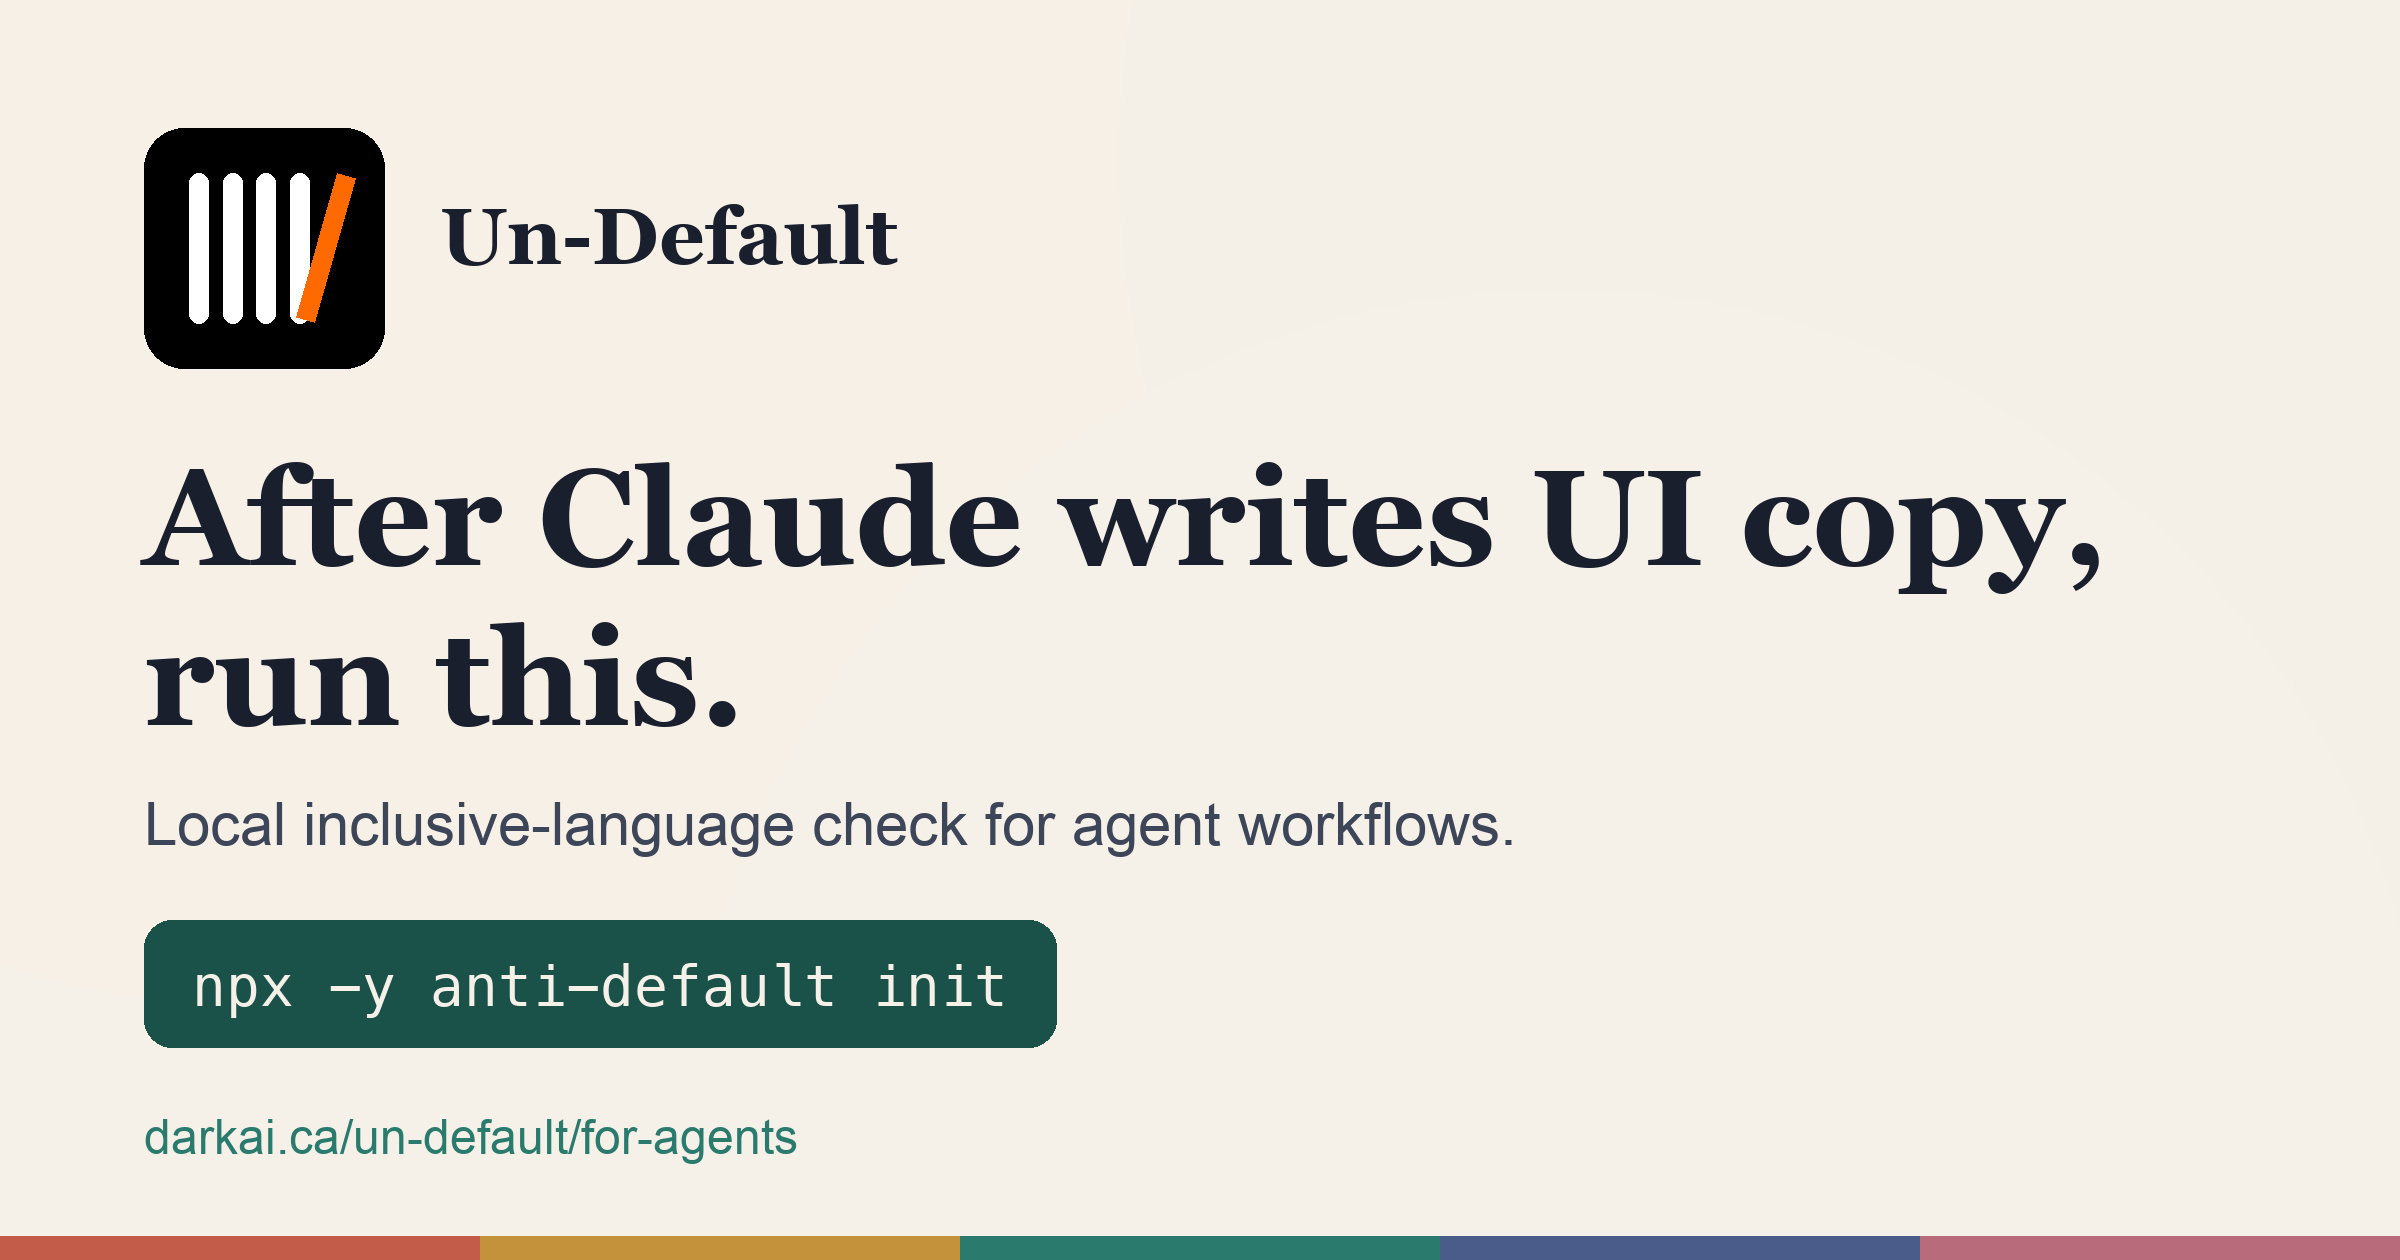
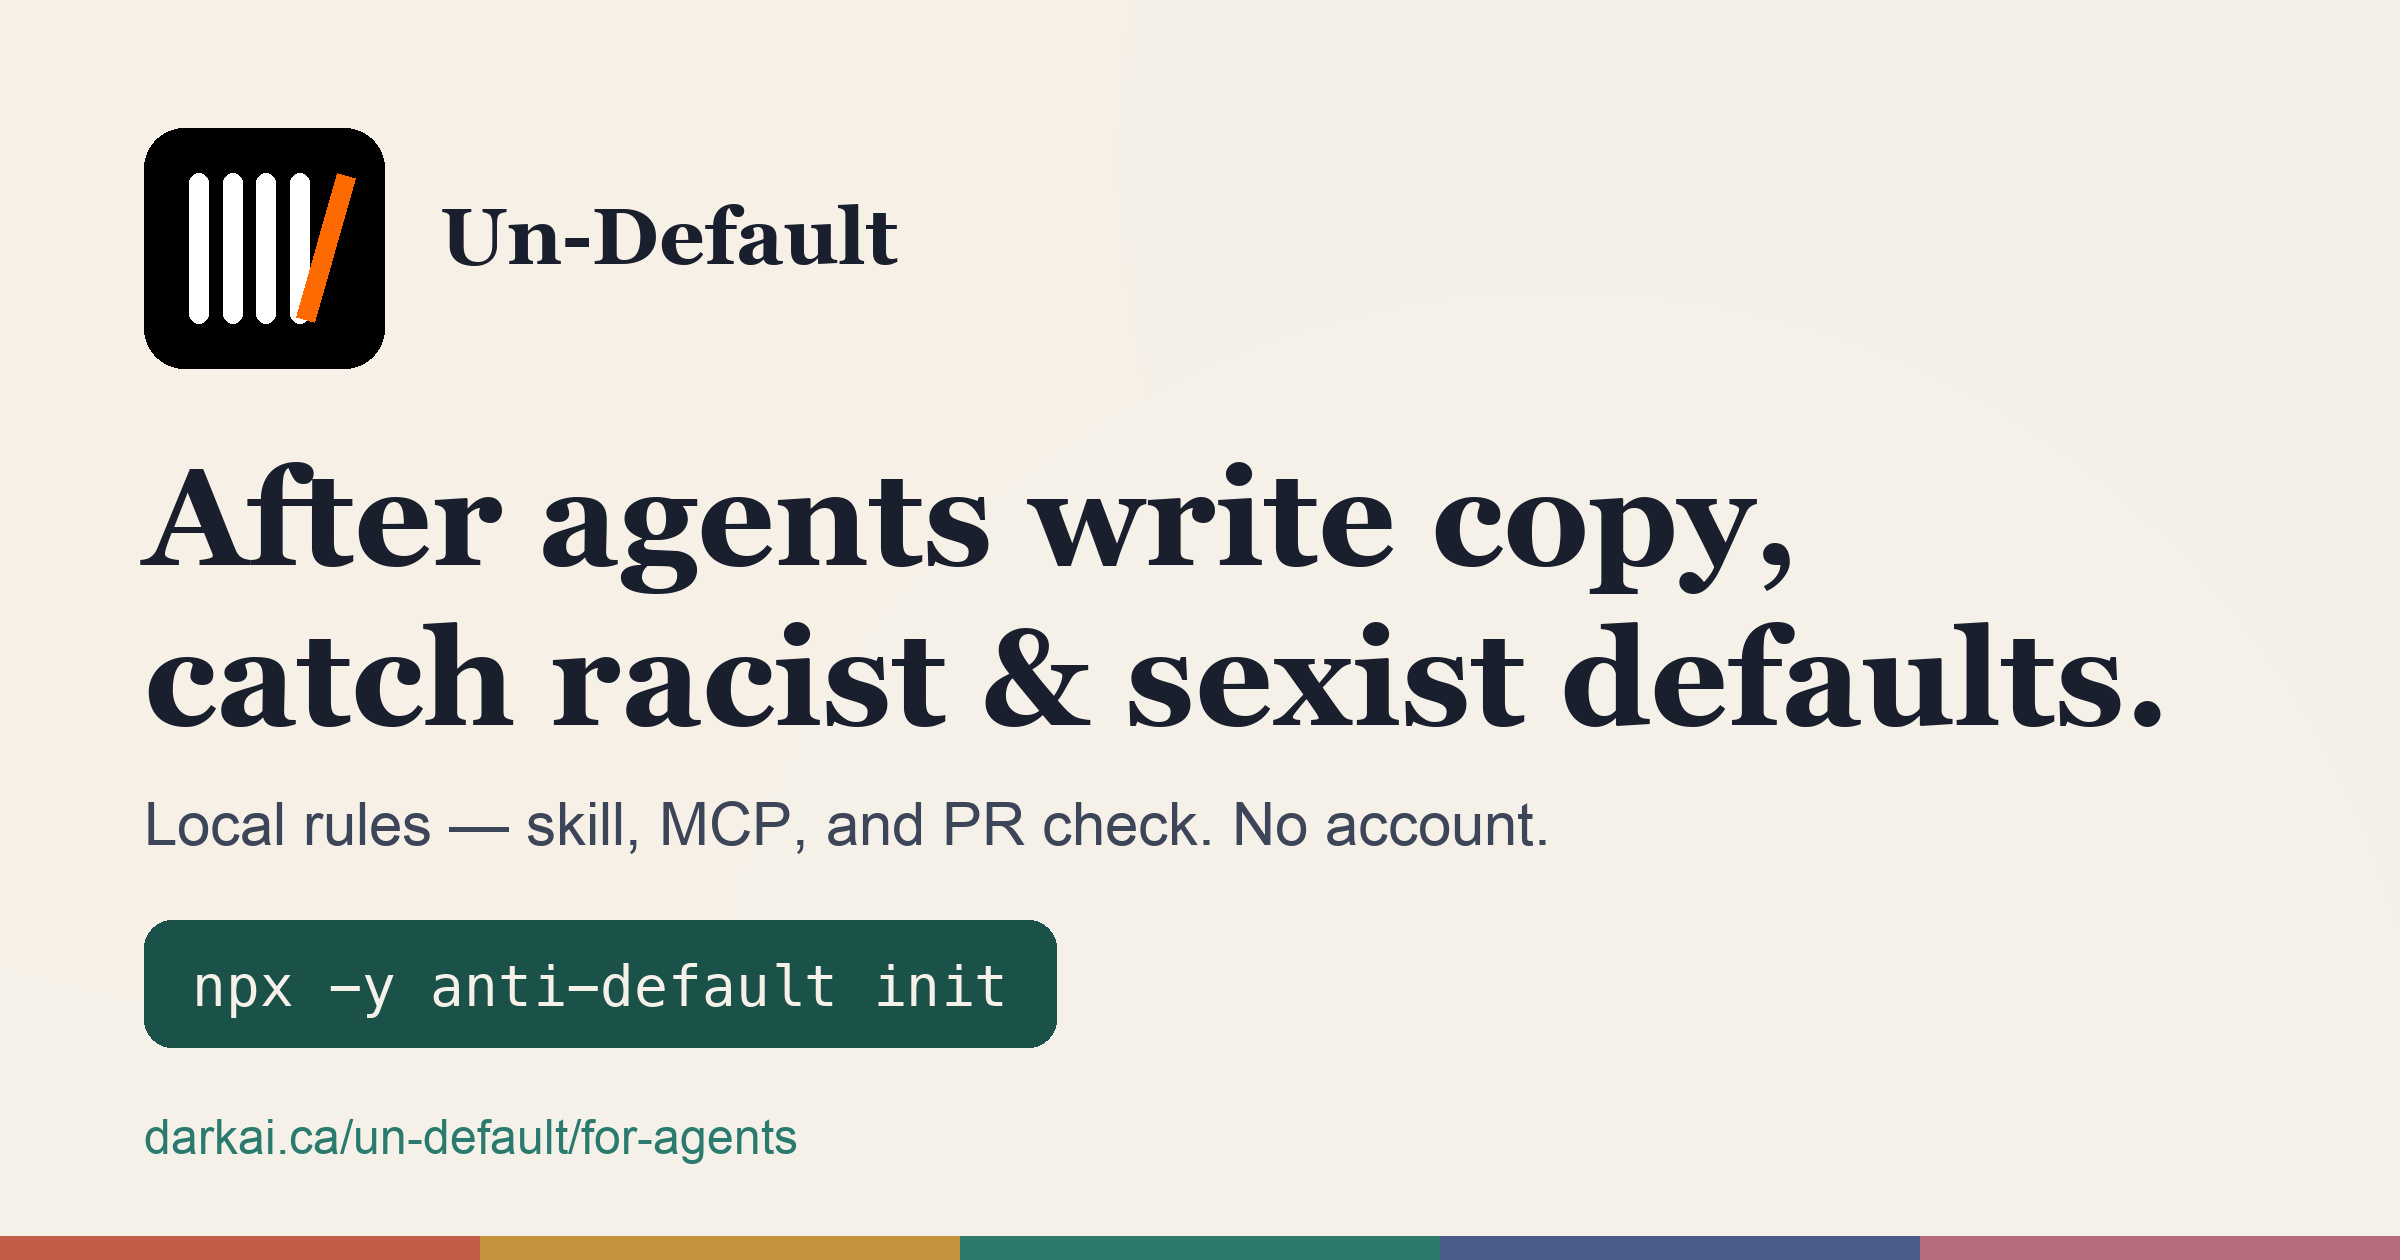
Regenerate OG and PH hero with racist/sexist hook copy.
OG cards and 01-home-hero.png use the same card style; bump og cache bust to v=4.

Changed region(s): [[0.0625, 0.3714, 0.9062, 0.5881], [0.125, 0.619, 0.6562, 0.681]]

diff --git a/src/app/for-agents/page.tsx b/src/app/for-agents/page.tsx
@@ -16,7 +16,7 @@ export const metadata: Metadata = {
     type: "website",
     images: [
       {
-        url: "/og-for-agents.jpg?v=3",
+        url: "/og-for-agents.jpg?v=4",
         width: 2400,
         height: 1260,
         alt: "Un-Default — after Claude writes UI copy, run npx -y anti-default init",
@@ -29,7 +29,7 @@ export const metadata: Metadata = {
     title: "After Claude writes UI copy, run this",
     description:
       "npx -y anti-default init — skill + MCP + PR check so agents don’t ship racist & sexist defaults.",
-    images: ["/og-for-agents.jpg?v=3"],
+    images: ["/og-for-agents.jpg?v=4"],
   },
 };export default function ForAgentsPage() {
   return (

diff --git a/src/app/layout.tsx b/src/app/layout.tsx
@@ -44,7 +44,7 @@ export const metadata: Metadata = {
     url: LIVE_APP_URL,
     images: [
       {
-        url: "/og.jpg?v=3",
+        url: "/og.jpg?v=4",
         width: 2400,
         height: 1260,
         alt: "Un-Default — catch racist, sexist & ableist defaults in AI copy",
@@ -57,7 +57,7 @@ export const metadata: Metadata = {
     title: "Un-Default — Catch racist & sexist defaults",
     description:
       "Catch racist, sexist, and ableist defaults in AI-written copy — locally, with public rules.",
-    images: ["/og.jpg?v=3"],
+    images: ["/og.jpg?v=4"],
   },
 };
 

diff --git a/scripts/generate-og-images.py b/scripts/generate-og-images.py
@@ -14,10 +14,12 @@ PUBLIC = ROOT / "public"
 # LinkedIn display size is ~1200×630; render at 2× then keep full-res assets.
 SCALE = 2
 W, H = 1200 * SCALE, 630 * SCALE
+PH_W, PH_H = 1270, 760
+GALLERY = ROOT / "docs" / "product-hunt" / "gallery"
 
 
-def S(n: float) -> int:
-    return int(round(n * SCALE))
+def S(n: float, scale: float = SCALE) -> int:
+    return int(round(n * scale))
 
 
 def blob(
@@ -34,10 +36,16 @@ def blob(
         od.ellipse([cx - rr, cy - rr, cx + rr, cy + rr], fill=(*color, a))
 
 
-def draw_mark(draw: ImageDraw.ImageDraw, mark_x: int, mark_y: int, mark_s: int) -> None:
+def draw_mark(
+    draw: ImageDraw.ImageDraw,
+    mark_x: int,
+    mark_y: int,
+    mark_s: int,
+    scale: float = SCALE,
+) -> None:
     draw.rounded_rectangle(
         [mark_x, mark_y, mark_x + mark_s, mark_y + mark_s],
-        radius=S(20),
+        radius=S(20, scale),
         fill="#000000",
     )
     scale = mark_s / 256
@@ -73,21 +81,30 @@ def draw_mark(draw: ImageDraw.ImageDraw, mark_x: int, mark_y: int, mark_s: int) 
         draw.polygon(pts, fill=color)
 
 
-def band(draw: ImageDraw.ImageDraw) -> None:
-    colors = ["#c45c4a", "#c4923a", "#2a7a6e", "#4a5d8a", "#b86b7a"]
-    bw = W // len(colors)
-    for i, c in enumerate(colors):
-        draw.rectangle([i * bw, H - S(12), (i + 1) * bw if i < 4 else W, H], fill=c)
-
-
-def base_canvas() -> Image.Image:
-    img = Image.new("RGB", (W, H), "#f6f1e8")
-    overlay = Image.new("RGBA", (W, H), (0, 0, 0, 0))
+def base_canvas(width: int = W, height: int = H, scale: float = SCALE) -> Image.Image:
+    img = Image.new("RGB", (width, height), "#f6f1e8")
+    overlay = Image.new("RGBA", (width, height), (0, 0, 0, 0))
     od = ImageDraw.Draw(overlay)
-    blob(od, S(160), S(-20), S(460), (196, 92, 74), 85)
-    blob(od, S(1040), S(80), S(420), (42, 122, 110), 75)
-    blob(od, S(780), S(580), S(380), (74, 93, 138), 50)
+    blob(od, S(160, scale), S(-20, scale), S(460, scale), (196, 92, 74), 85)
+    blob(od, S(1040, scale), S(80, scale), S(420, scale), (42, 122, 110), 75)
+    blob(od, S(780, scale), S(580, scale), S(380, scale), (74, 93, 138), 50)
     return Image.alpha_composite(img.convert("RGBA"), overlay).convert("RGB")
+
+
+def band(
+    draw: ImageDraw.ImageDraw,
+    width: int = W,
+    height: int = H,
+    scale: float = SCALE,
+) -> None:
+    colors = ["#c45c4a", "#c4923a", "#2a7a6e", "#4a5d8a", "#b86b7a"]
+    bw = width // len(colors)
+    bar_h = S(12, scale)
+    for i, c in enumerate(colors):
+        draw.rectangle(
+            [i * bw, height - bar_h, (i + 1) * bw if i < 4 else width, height],
+            fill=c,
+        )
 
 
 def load_font(paths: list[str], size: int) -> ImageFont.FreeTypeFont | ImageFont.ImageFont:
@@ -100,7 +117,7 @@ def load_font(paths: list[str], size: int) -> ImageFont.FreeTypeFont | ImageFont
     return ImageFont.load_default()
 
 
-def fonts() -> dict[str, ImageFont.FreeTypeFont | ImageFont.ImageFont]:
+def fonts(scale: float = SCALE) -> dict[str, ImageFont.FreeTypeFont | ImageFont.ImageFont]:
     serif_bold = [
         "/System/Library/Fonts/Supplemental/Georgia Bold.ttf",
         "/Library/Fonts/Georgia Bold.ttf",
@@ -122,21 +139,28 @@ def fonts() -> dict[str, ImageFont.FreeTypeFont | ImageFont.ImageFont]:
         "/Library/Fonts/Andale Mono.ttf",
     ]
     return {
-        "brand": load_font(serif_bold, S(40)),
-        "title": load_font(serif_bold, S(68)),
-        "body": load_font(sans, S(30)),
-        "small": load_font(sans, S(24)),
-        "mono": load_font(mono, S(28)),
+        "brand": load_font(serif_bold, S(40, scale)),
+        "title": load_font(serif_bold, S(68, scale)),
+        "body": load_font(sans, S(30, scale)),
+        "small": load_font(sans, S(24, scale)),
+        "mono": load_font(mono, S(28, scale)),
     }
 
 
-def chip(draw: ImageDraw.ImageDraw, text: str, font: ImageFont.ImageFont, y: int) -> None:
+def chip(
+    draw: ImageDraw.ImageDraw,
+    text: str,
+    font: ImageFont.ImageFont,
+    y: int,
+    scale: float = SCALE,
+) -> None:
     bbox = draw.textbbox((0, 0), text, font=font)
-    pad_x, pad_y = S(24), S(18)
+    pad_x, pad_y = S(24, scale), S(18, scale)
     cw = bbox[2] - bbox[0] + pad_x * 2
     ch = bbox[3] - bbox[1] + pad_y * 2
-    draw.rounded_rectangle([S(72), y, S(72) + cw, y + ch], radius=S(14), fill="#1a524a")
-    draw.text((S(72) + pad_x, y + pad_y - S(1)), text, fill="#f6f1e8", font=font)
+    x = S(72, scale)
+    draw.rounded_rectangle([x, y, x + cw, y + ch], radius=S(14, scale), fill="#1a524a")
+    draw.text((x + pad_x, y + pad_y - S(1, scale)), text, fill="#f6f1e8", font=font)
 
 
 def save_pair(img: Image.Image, stem: str) -> None:
@@ -153,11 +177,11 @@ def write_agents(f: dict[str, ImageFont.ImageFont]) -> None:
     draw = ImageDraw.Draw(img)
     draw_mark(draw, S(72), S(64), S(120))
     draw.text((S(220), S(95)), "Un-Default", fill="#1a1f2e", font=f["brand"])
-    draw.text((S(72), S(220)), "After Claude writes UI copy,", fill="#1a1f2e", font=f["title"])
-    draw.text((S(72), S(300)), "run this.", fill="#1a1f2e", font=f["title"])
+    draw.text((S(72), S(220)), "After agents write copy,", fill="#1a1f2e", font=f["title"])
+    draw.text((S(72), S(300)), "catch racist & sexist defaults.", fill="#1a1f2e", font=f["title"])
     draw.text(
         (S(72), S(395)),
-        "Local inclusive-language check for agent workflows.",
+        "Local rules — skill, MCP, and PR check. No account.",
         fill="#3d4558",
         font=f["body"],
     )
@@ -172,11 +196,11 @@ def write_home(f: dict[str, ImageFont.ImageFont]) -> None:
     draw = ImageDraw.Draw(img)
     draw_mark(draw, S(72), S(64), S(120))
     draw.text((S(220), S(95)), "Un-Default", fill="#1a1f2e", font=f["brand"])
-    draw.text((S(72), S(220)), "Inclusive language review", fill="#1a1f2e", font=f["title"])
-    draw.text((S(72), S(300)), "for AI-written copy.", fill="#1a1f2e", font=f["title"])
+    draw.text((S(72), S(220)), "Catch racist & sexist", fill="#1a1f2e", font=f["title"])
+    draw.text((S(72), S(300)), "defaults before they ship.", fill="#1a1f2e", font=f["title"])
     draw.text(
         (S(72), S(395)),
-        "Catch colonial, gendered, and ableist defaults — locally.",
+        "Racist, sexist & ableist — local rules, no account.",
         fill="#3d4558",
         font=f["body"],
     )
@@ -186,11 +210,52 @@ def write_home(f: dict[str, ImageFont.ImageFont]) -> None:
     save_pair(img, "og")
 
 
+def write_ph_hero() -> None:
+    """Product Hunt gallery hero — same card style as OG, 1270×760."""
+    scale = PH_W / 1200
+    f = fonts(scale)
+    img = base_canvas(PH_W, PH_H, scale)
+    draw = ImageDraw.Draw(img)
+    draw_mark(draw, S(72, scale), S(64, scale), S(120, scale), scale)
+    draw.text((S(220, scale), S(95, scale)), "Un-Default", fill="#1a1f2e", font=f["brand"])
+    draw.text(
+        (S(72, scale), S(220, scale)),
+        "Catch racist & sexist",
+        fill="#1a1f2e",
+        font=f["title"],
+    )
+    draw.text(
+        (S(72, scale), S(300, scale)),
+        "defaults before they ship.",
+        fill="#1a1f2e",
+        font=f["title"],
+    )
+    draw.text(
+        (S(72, scale), S(395, scale)),
+        "Racist, sexist & ableist — local rules, no account.",
+        fill="#3d4558",
+        font=f["body"],
+    )
+    chip(draw, "npx -y anti-default init", f["mono"], S(460, scale), scale)
+    draw.text(
+        (S(72, scale), S(555, scale)),
+        "darkai.ca/un-default/for-agents",
+        fill="#2a7a6e",
+        font=f["small"],
+    )
+    band(draw, PH_W, PH_H, scale)
+    GALLERY.mkdir(parents=True, exist_ok=True)
+    out = GALLERY / "01-home-hero.png"
+    img.save(out, "PNG", optimize=True)
+    print(f"wrote {out.relative_to(ROOT)} · {out.stat().st_size}B · {img.size}")
+
+
 def main() -> None:
     PUBLIC.mkdir(parents=True, exist_ok=True)
     f = fonts()
     write_agents(f)
     write_home(f)
+    write_ph_hero()
 
 
 if __name__ == "__main__":

diff --git a/docs/product-hunt/gallery/README.md b/docs/product-hunt/gallery/README.md
@@ -2,23 +2,19 @@
 
 Screenshots from https://darkai.ca/un-default/ at **1270×760**.
 
-**Upload order (proof first — hunters skim):**
+**Upload order (hero card first, then proof shots):**
 
-1. `03-agents.png` — one-command agent install
-2. `02-findings-summary.png` — findings + rewrites
-3. `02b-finding-card.png` — single finding card
-4. `04b-rules-list.png` — open rules
-5. `05-dogwhistles.png` — coded phrases
+1. `01-home-hero.png` — OG-style hook (racist, sexist & ableist)
+2. `03-agents.png` — one-command agent install
+3. `02-findings-summary.png` — findings + rewrites
+4. `02b-finding-card.png` — single finding card
+5. `04b-rules-list.png` — open rules
+6. `05-dogwhistles.png` — coded phrases
 
-Extras: `01-home-hero.png`, `03b-agents-mcp.png`, `04-rules.png`, `05b-dogwhistles-list.png`.
+Extras: `03b-agents-mcp.png`, `04-rules.png`, `05b-dogwhistles-list.png`.
 
-If you have a demo video, put it **first** in the gallery (above stills).
-
-Regenerate:
+Regenerate OG cards + PH hero:
 
 ```bash
-# from anti-default repo (needs Chrome + playwright-core)
-node scripts/capture-ph-gallery.mjs   # if added
+python3 scripts/generate-og-images.py
 ```
-
-Or re-run the Playwright snippet used to create these.

diff --git a/docs/product-hunt/LAUNCH.md b/docs/product-hunt/LAUNCH.md
@@ -124,12 +124,12 @@ All shots are **1270×760** from the live site. Upload in this order (proof firs
 
 | # | File | Caption |
 |---|------|---------|
-| 1 | `03-agents.png` | One command for Claude / Cursor / Copilot |
-| 2 | `02-findings-summary.png` | Findings with why — and plain-language rewrites |
-| 3 | `02b-finding-card.png` | One hit: match, category, suggestions |
-| 4 | `04b-rules-list.png` | Open rules you can turn on or off |
-| 5 | `05-dogwhistles.png` | Coded phrases explained in context |
-| alt | `01-home-hero.png` | Brand / home (use after proof shots) |
+| 1 | `01-home-hero.png` | Catch racist, sexist & ableist defaults before they ship |
+| 2 | `03-agents.png` | One command for Claude / Cursor / Copilot |
+| 3 | `02-findings-summary.png` | Findings with why — and plain-language rewrites |
+| 4 | `02b-finding-card.png` | One hit: match, category, suggestions |
+| 5 | `04b-rules-list.png` | Open rules you can turn on or off |
+| 6 | `05-dogwhistles.png` | Coded phrases explained in context |
 | alt | `03b-agents-mcp.png` | Paste-ready MCP config |
 | alt | `04-rules.png` | Rules hub (hero) |
 | alt | `05b-dogwhistles-list.png` | Dogwhistle catalog |
